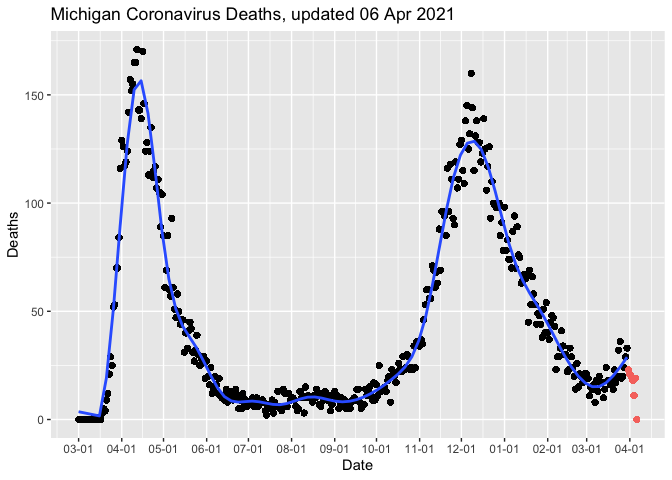
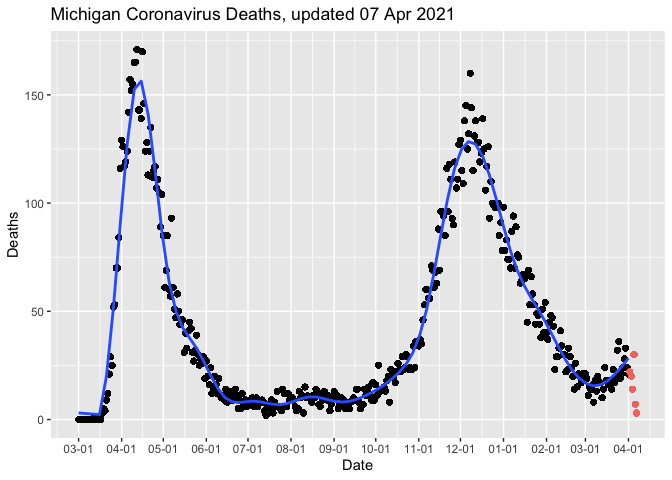
Apr-08 2021 11:11 update

diff --git a/MiCorona.md b/MiCorona.md
@@ -1,7 +1,7 @@
 Michigan COVID Data
 ================
 Adam D. DenHaan
-Apr 06, 2021
+Apr 08, 2021
 
 ``` python
 from urllib.request import urlopen
@@ -34,7 +34,7 @@ mi_data = readxl::read_excel("data/covid.xlsx")
 glimpse(mi_data)
 ```
 
-    ## Rows: 70,761
+    ## Rows: 70,938
     ## Columns: 8
     ## $ COUNTY            <chr> "Alcona", "Alcona", "Alcona", "Alcona", "Alcona", "A…
     ## $ Date              <dttm> 2020-03-01, 2020-03-02, 2020-03-03, 2020-03-04, 202…
@@ -43,7 +43,7 @@ glimpse(mi_data)
     ## $ Deaths            <dbl> 0, 0, 0, 0, 0, 0, 0, 0, 0, 0, 0, 0, 0, 0, 0, 0, 0, 0…
     ## $ Cases.Cumulative  <dbl> 0, 0, 0, 0, 0, 0, 0, 0, 0, 0, 0, 0, 0, 0, 0, 0, 0, 0…
     ## $ Deaths.Cumulative <dbl> 0, 0, 0, 0, 0, 0, 0, 0, 0, 0, 0, 0, 0, 0, 0, 0, 0, 0…
-    ## $ Updated           <dttm> 2021-04-06 13:25:17, 2021-04-06 13:25:17, 2021-04-0…
+    ## $ Updated           <dttm> 2021-04-07 13:43:14, 2021-04-07 13:43:14, 2021-04-0…
 
 Wrangle Data:
 
@@ -115,7 +115,7 @@ mi_cases_by_day_exclusive %>%
 
 ![](MiCorona_files/figure-gfm/viz2-1.png)<!-- -->
 
-Note that the last 7 days of data have been colored red on the graph, as
+Note that the last 6 days of data have been colored red on the graph, as
 they frequently change as more information becomes available. Vertical
 orange line at 3 weeks in the past (as hospitalizations and deaths
 usually follow cases by three weeks).
